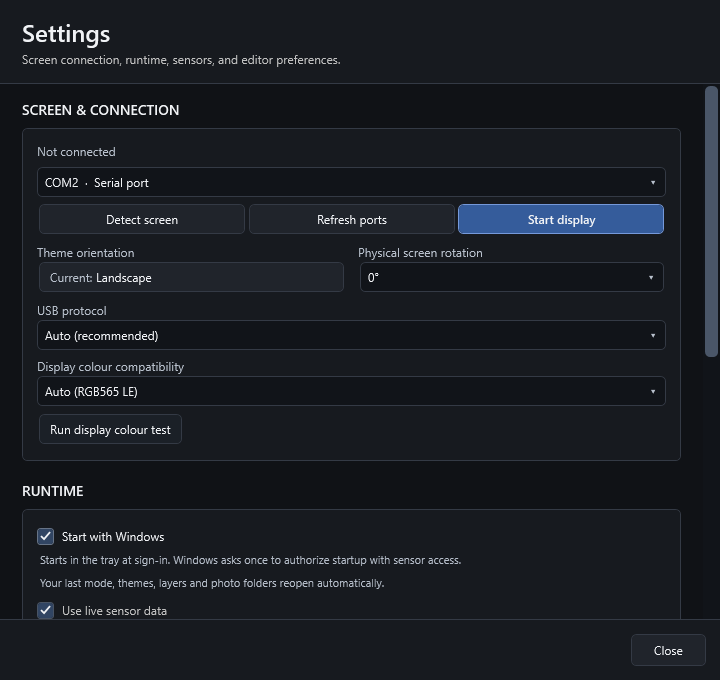
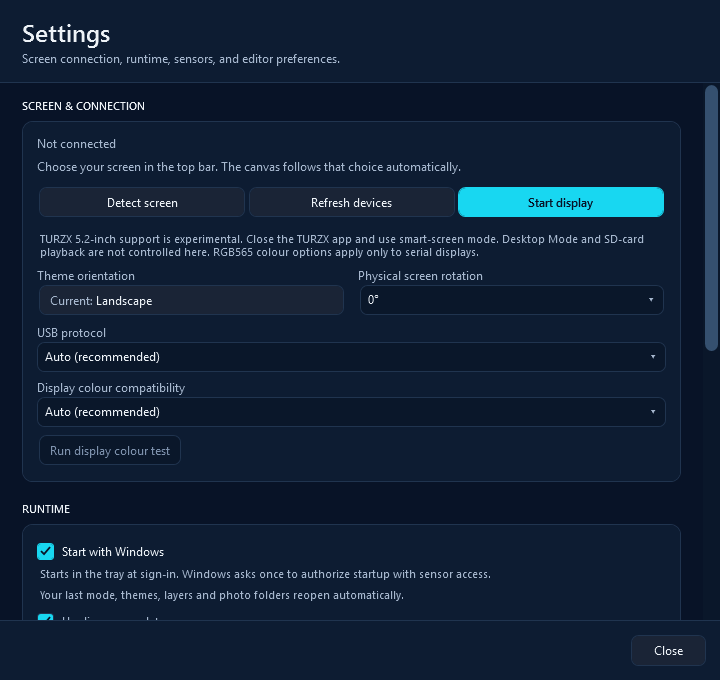
Record reviewed Windows UI captures and owner hardware confirmation

diff --git a/docs/validation/ui-v0.10.0-alpha.12.md b/docs/validation/ui-v0.10.0-alpha.12.md
@@ -1,0 +1,31 @@
+# Coordinated Studio UI, alpha.12
+
+The supplied colour reference and MechKeyMesh's current `apps/desktop/frontend/dist/app.css` informed the shared palette and restrained component styling. The existing three-column editor, mode workspaces, navigation, commands, bindings, event handlers and named controls are retained.
+
+Primary actions use Neon Aqua with Deep Navy labels. Secondary controls use Carbon Slate and derived navy surfaces. Mesh Cyan marks selections, Electric Blue marks keyboard focus, and Accent Orange marks numeric validation. Silver White and a lighter derived slate support readable text. Theme artwork colours are not changed.
+
+## Verification
+
+[Windows workflow 38524545708](https://github.com/ManethonSega/PC-Info-Screen-Studio/actions/runs/38524545708) passed for source `97c9d4c6fdc7bbaa2ce0ad3026ea3dc820aa2c29`, with zero compiler warnings or errors, the full WPF/controller harness, published-EXE startup and extracted-ZIP startup.
+
+The actual WPF primary label, helper text, selected items and tooltip contrast checks passed. The slider value reaches its template track and retains the thumb. Existing USB, mode-switch, GIF, independent-playlist, large-font, canvas-selection, source-search and recovery checks remain in the suite.
+
+Full-size (1560 × 1040) and compact (1080 × 680) WPF captures were visually reviewed. Review caught double padding in narrow inputs and a cropped compact canvas hint; both were corrected before the successful run. Scrollable canvas cropping at 100% zoom in a compact window is intentional; zoom and scrollbars remain available. These captures do not establish physical Windows DPI behaviour at 125%, 150% or 200%.
+
+The previews use sample readings, an empty photo playlist and no physical USB connection. The owner separately reports alpha.11 working correctly on their setup, including mode switching. Alpha.12 preserves those transport and rendering paths.
+
+## Actual interface captures
+
+![Info Screen](../images/info-screen-editor.png)
+
+![Compact editor](../images/info-screen-compact.png)
+
+![Photo Frame](../images/photo-frame-workspace.png)
+
+![Hybrid](../images/hybrid-workspace.png)
+
+![Hardware](../images/hardware-overview.png)
+
+![Settings](../images/settings-window.png)
+
+![Control states](../images/control-states.png)

diff --git a/docs/COMPATIBILITY.md b/docs/COMPATIBILITY.md
@@ -7,7 +7,7 @@ This catalogue separates owner observations from repeatable automated checks. Br
 | Owner's 3.5-inch, 480 × 320 Turing/TURZX-style USB serial display | Owner reported correct output and colours, and many working sensors after PawnIO installation | Revision-A device path is the current supported focus. Exact model/revision and USB VID/PID have not been recorded in a public validation record. |
 | Other Revision-A-compatible 480 × 320 USB serial displays | Protocol implementation and simulated device checks | Provisional compatibility; needs confirmation on the specific physical device. |
 | Other display revisions or sizes | No completed hardware validation for this release | No broad compatibility claim. |
-| TURZX 5.2-inch display with a desktop-monitor function | Owner confirmed initial smart-screen output in all three modes in alpha.7, with stoppage/animation/selection issues reported | Experimental WinUSB backend; alpha.11 retains JPEG output and removes mode-change setup that disconnected playback in alpha.10. The owner confirmed the large-font and independent-playlist fixes; physical mode-switch retesting is required. Desktop Mode is not controlled by the app. |
+| TURZX 5.2-inch display with a desktop-monitor function | Owner confirmed initial smart-screen output in all three modes in alpha.7, with stoppage/animation/selection issues reported | Experimental WinUSB backend; alpha.11 retains JPEG output and removes mode-change setup that disconnected playback in alpha.10. The owner confirmed the large-font and independent-playlist fixes; the owner reports alpha.11 working correctly on their setup, including mode switching. Broader compatibility and long-duration evidence are still limited. Desktop Mode is not controlled by the app. |
 | CPU/GPU/cooling/storage sensors | LibreHardwareMonitor, optional PawnIO and HWiNFO sources | Availability varies by hardware, driver and permissions. Unavailable readings are labelled rather than invented. |
 | GIF playback and photo transitions | Software playback checks, owner feedback from earlier builds | Physical speed depends on the device and USB bandwidth. |
 | Video | Import and placeholder only | Full decoding/playback is not implemented. |

diff --git a/docs/VALIDATION.md b/docs/VALIDATION.md
@@ -150,5 +150,5 @@ local-build sections above record historical checks, not current CI results.
 The owner reported that two alpha.10 fixes succeeded: large-font editing and
 independent Photo Frame/Hybrid photos. They also reported a mode-change
 disconnect. Alpha.11 addresses that regression in simulated transport checks;
-a physical retest has not yet been reported. Sustained GIF speed, Windows
+the owner subsequently reported on 14 October 2026 that alpha.11 works correctly on their setup, including mode switching. Sustained GIF speed, Windows
 disk activity, restart and sleep/resume remain unmeasured on the real device.
